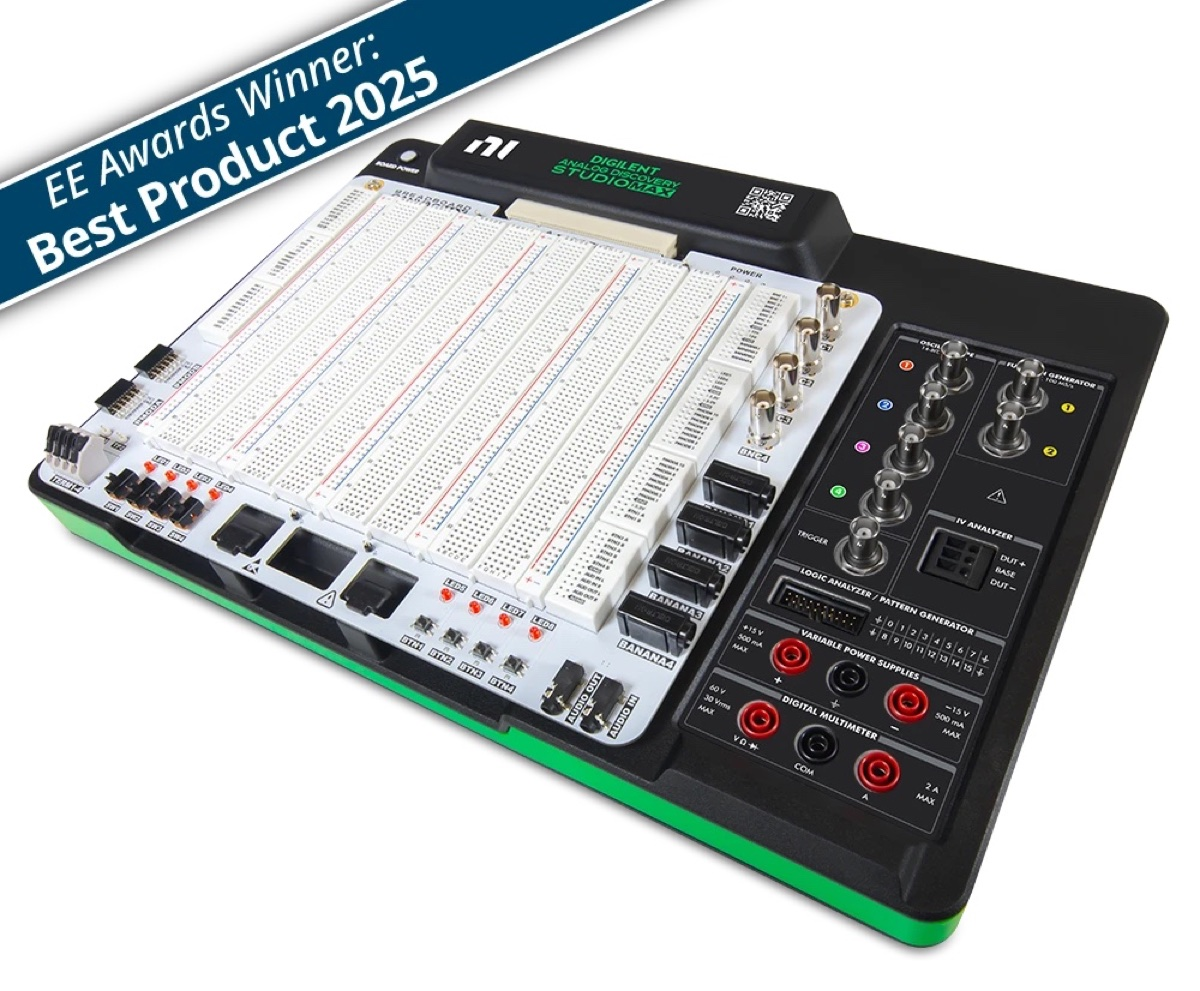
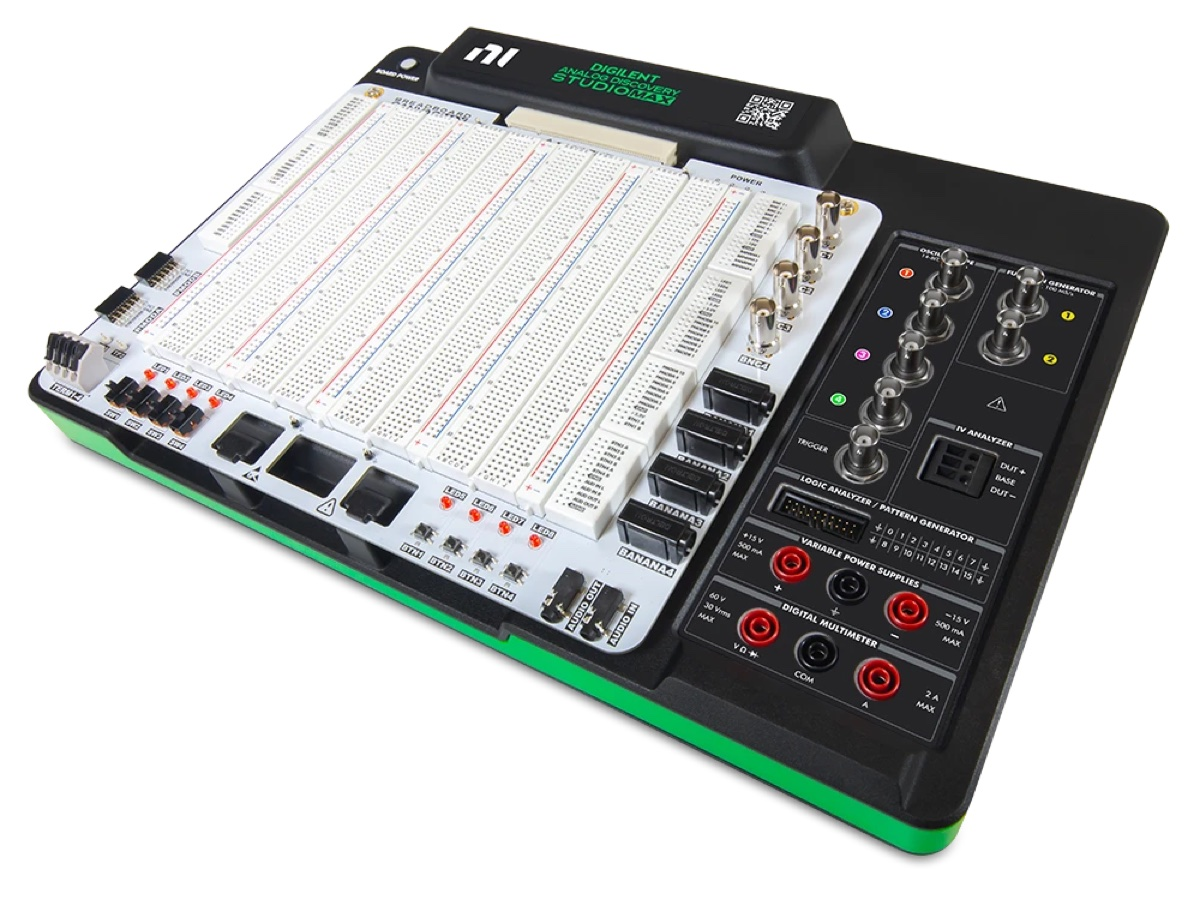
Facilities: 写真の白背景化と差し替え、OptiTrack は仕様を箇条書きに
- 写真枠の背景を白に
- Mikasa MS-B150・NanoVNA は提供された写真に、ADS Max はバッジ無しの製品写真に、MSO44B は正面写真に差し替え
- Prime 13W / Flex 3 は根拠の無い用途を削り、解像度・FPS・遅延・視野角・（Flex 3 は）最大検出距離 6 m を「仕様」として記載
- 機器に specs（仕様）欄を追加できるようにした

diff --git a/_includes/style.html b/_includes/style.html
@@ -294,7 +294,7 @@
   @media (max-width: 1000px) { .devices { grid-template-columns: repeat(2, 1fr); } }
   @media (max-width: 640px)  { .devices { grid-template-columns: 1fr; } }
   .device { min-width: 0; }
-  .device-fig { background: #f3f5f7; border: 1px solid var(--line); border-radius: 8px; overflow: hidden; margin-bottom: 1em; }
+  .device-fig { background: #fff; border: 1px solid var(--line); border-radius: 8px; overflow: hidden; margin-bottom: 1em; }
   .device-fig img { display: block; width: 100%; aspect-ratio: 4 / 3; object-fit: contain; }
   .device-name { margin: 0 0 0.6em; font-size: 1em; letter-spacing: 0.04em; font-weight: 600; line-height: 1.6; color: var(--ink); }
   .device-qty { font-weight: 400; color: var(--faint); font-size: 0.9em; margin-left: 0.2em; }

diff --git a/_includes/page_facilities.html b/_includes/page_facilities.html
@@ -25,6 +25,12 @@
       {%- endif %}
       <h4 class="device-name">{% if d.maker and d.maker != "" %}{{ d.maker | escape }} {% endif %}{{ d.name | escape }}{% if d.qty and d.qty > 1 %} <span class="device-qty">×{{ d.qty }}</span>{% endif %}</h4>
       {%- if b.desc and b.desc != "" %}<p class="device-desc">{{ b.desc | escape }}</p>{% endif -%}
+      {%- if b.specs and b.specs.size > 0 %}
+      <div class="device-uses-head">{{ t.facilities_specs }}</div>
+      <ul class="device-uses">
+        {%- for u in b.specs %}<li>{{ u | escape }}</li>{% endfor %}
+      </ul>
+      {%- endif %}
       {%- if b.uses and b.uses.size > 0 %}
       <div class="device-uses-head">{{ t.facilities_uses }}</div>
       <ul class="device-uses">
